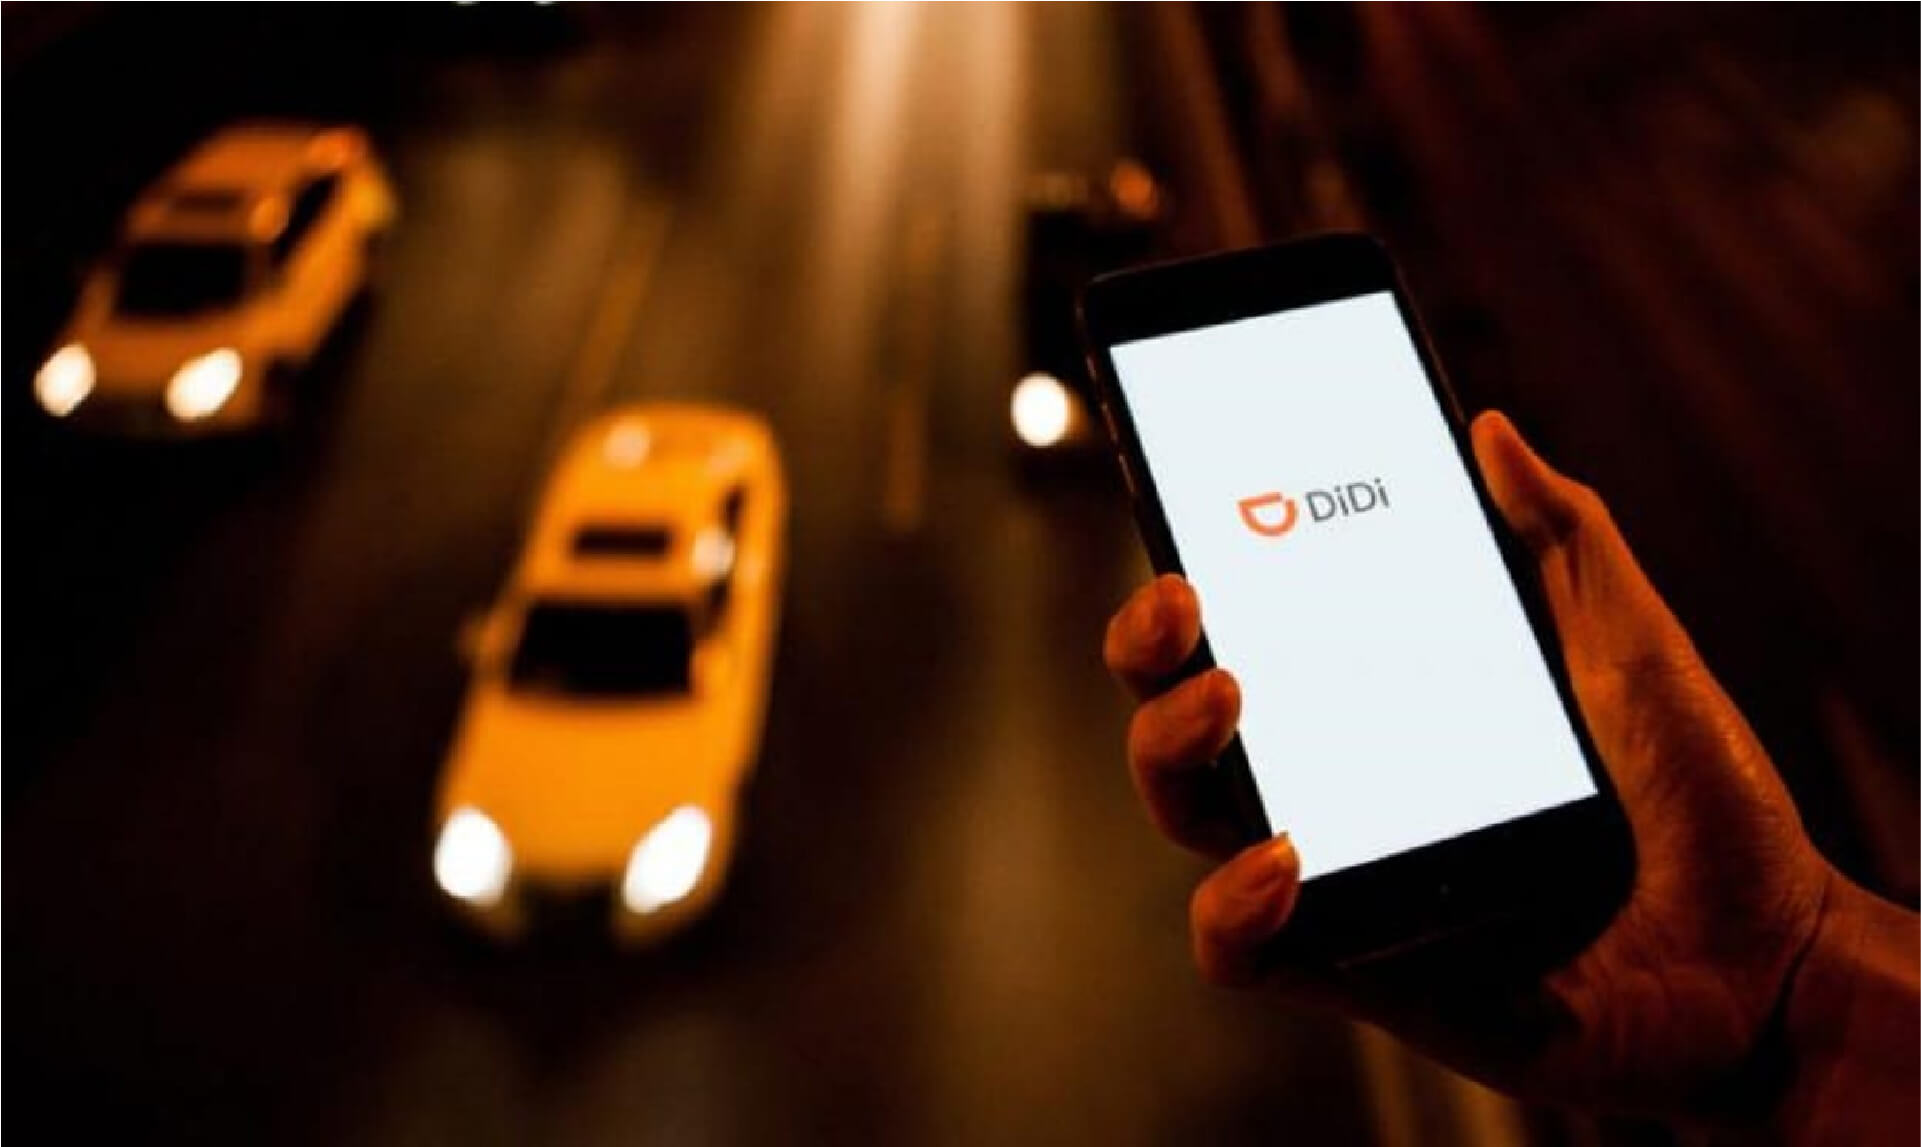
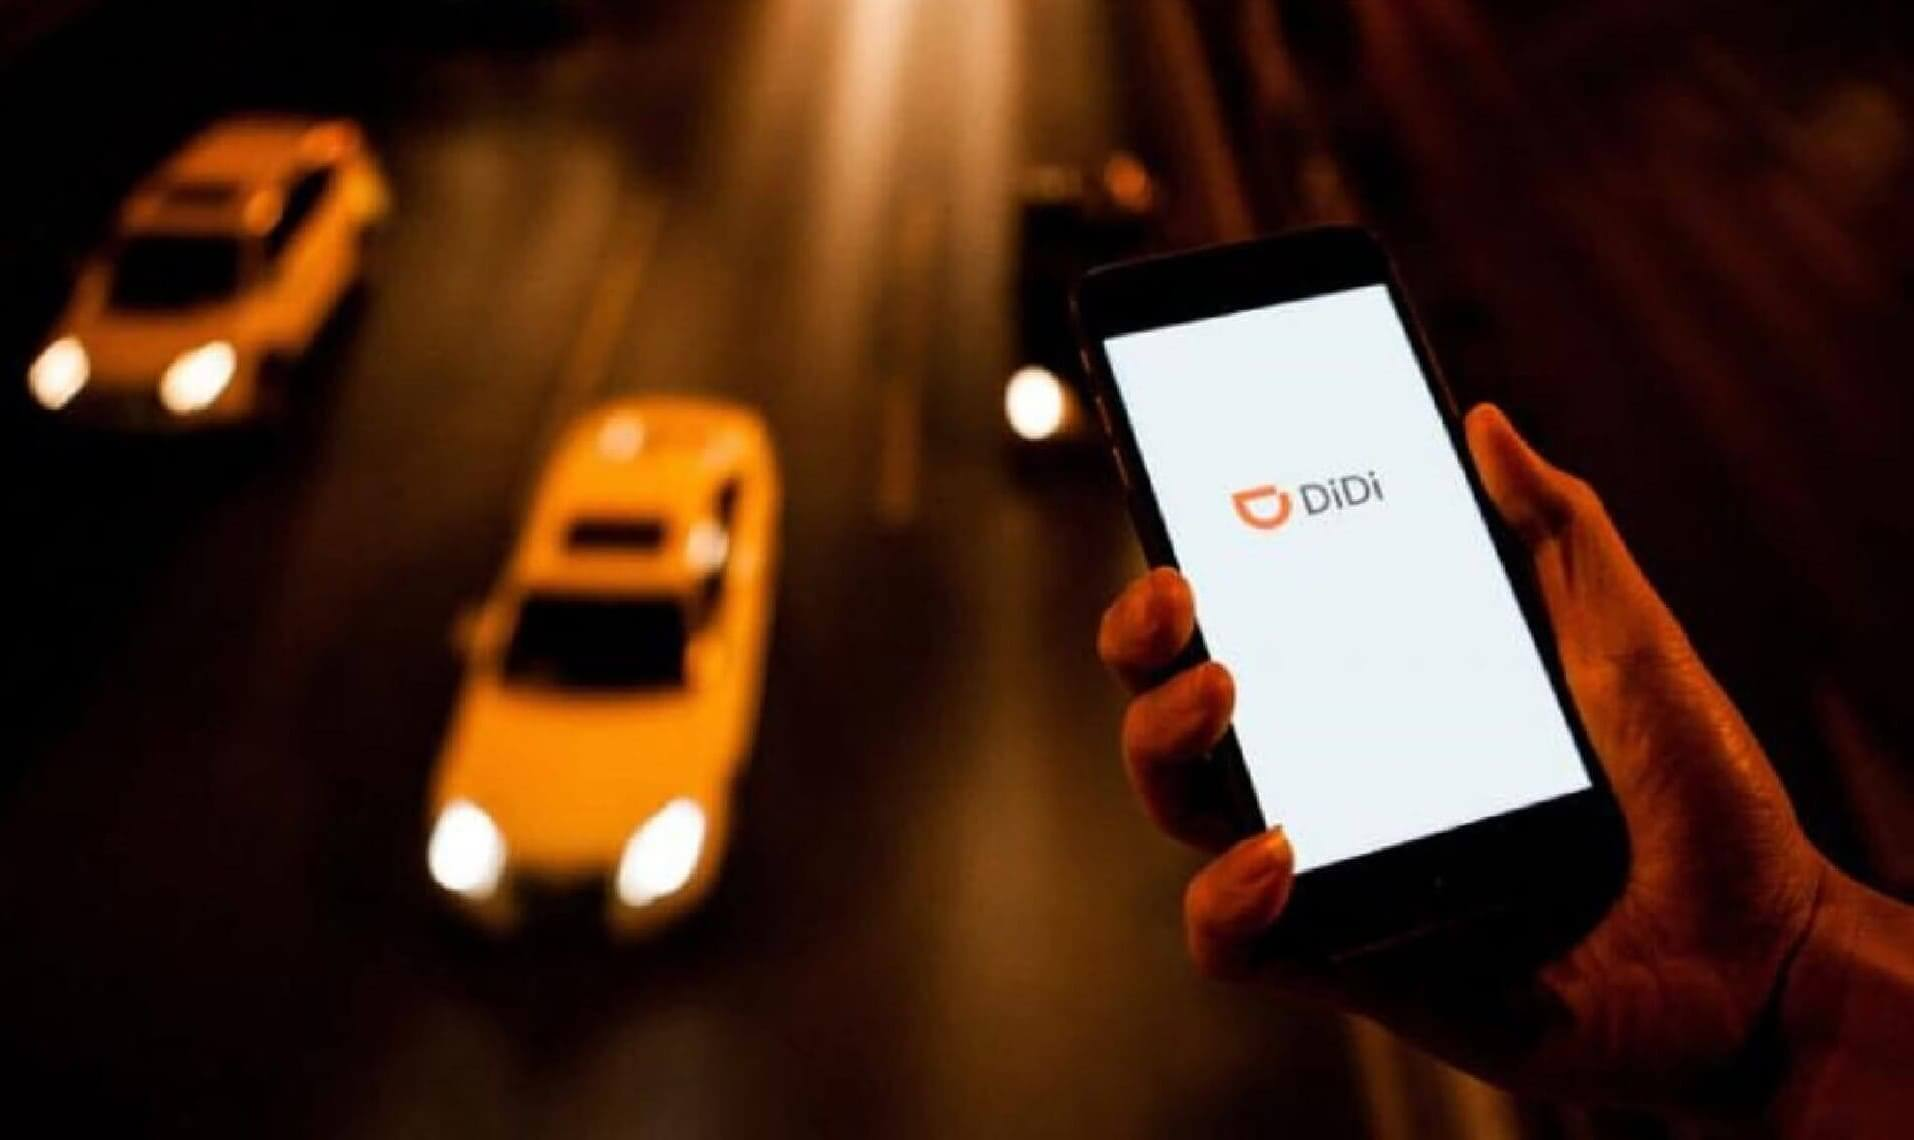
cambio de imagenes

diff --git a/components/advertising/PopUp.jsx b/components/advertising/PopUp.jsx
@@ -21,7 +21,7 @@ const PopUp = () => {
 		const imgType = 'pop-up'
 		const URL_IMG = `/api/advertising?imgType=${imgType}&imgYear=${imgYear}&imgMonth=${imgMonth}&selected=true`
 		const response = await axios.get(URL_IMG)
-		setImage(response.data.data.Items[0].image.S)
+		setImage(response?.data?.data?.Items[0]?.image?.S ? response.data.data.Items[0].image.S : '')
 	}
 
 

diff --git a/components/Sections/GnvInfo.jsx b/components/Sections/GnvInfo.jsx
@@ -15,7 +15,7 @@ const GnvInfo = () => {
 		<div className="transparent"></div>
 		<div className="info-wrapper">
 			<img src="/logo/logo-vanti.svg" alt="" className="logo-vanti" />
-			<img src="/img/servicios/InfografiaGNV.png" alt="" className="info" />
+			<img src="/img/servicios/InfografiaGNV.jpg" alt="" className="info" />
 		</div>
 
 		<style jsx>{`

diff --git a/pages/quienes-somos.jsx b/pages/quienes-somos.jsx
@@ -19,7 +19,7 @@ const Index = () => {
 			}
 		/>,
 		<ClientMain
-			backgroundImg="/img/colombiagas/slide-segunda.png"
+			backgroundImg="/img/colombiagas/slide-segunda.jpg"
 			backgroundMini="/img/colombiagas/fachada-second.jpg"
 			sizeScreen
 			padding

diff --git a/pages/beneficios/beneficios-medio-ambientales.jsx b/pages/beneficios/beneficios-medio-ambientales.jsx
@@ -14,7 +14,7 @@ const Index = () => {
 		</Head>
 
 		<BenefitBanner
-			background="ambiental.png"
+			background="ambiental.jpg"
 			icon="hand-flower.svg"
 			title="BENEFICIOS"
 			titleComplement="MEDIO AMBIENTALES"

diff --git a/components/Sections/GnvComponent.jsx b/components/Sections/GnvComponent.jsx
@@ -2,7 +2,7 @@ const GnvComponent = () => {
 	return <section>
 
 		<picture>
-			<img src="/img/servicios/componentes.png" alt="" />
+			<img src="/img/servicios/componentes.jpg" alt="" />
 
 		</picture>
 

diff --git a/pages/beneficios/financiacion.jsx b/pages/beneficios/financiacion.jsx
@@ -15,7 +15,7 @@ const Index = () => {
 		</Head>
 
 		<BenefitBanner
-			background="financiacion.png"
+			background="financiacion.jpg"
 			icon="hand-money.svg"
 			title="FINANCIACIÓN"
 			subtitle=""
